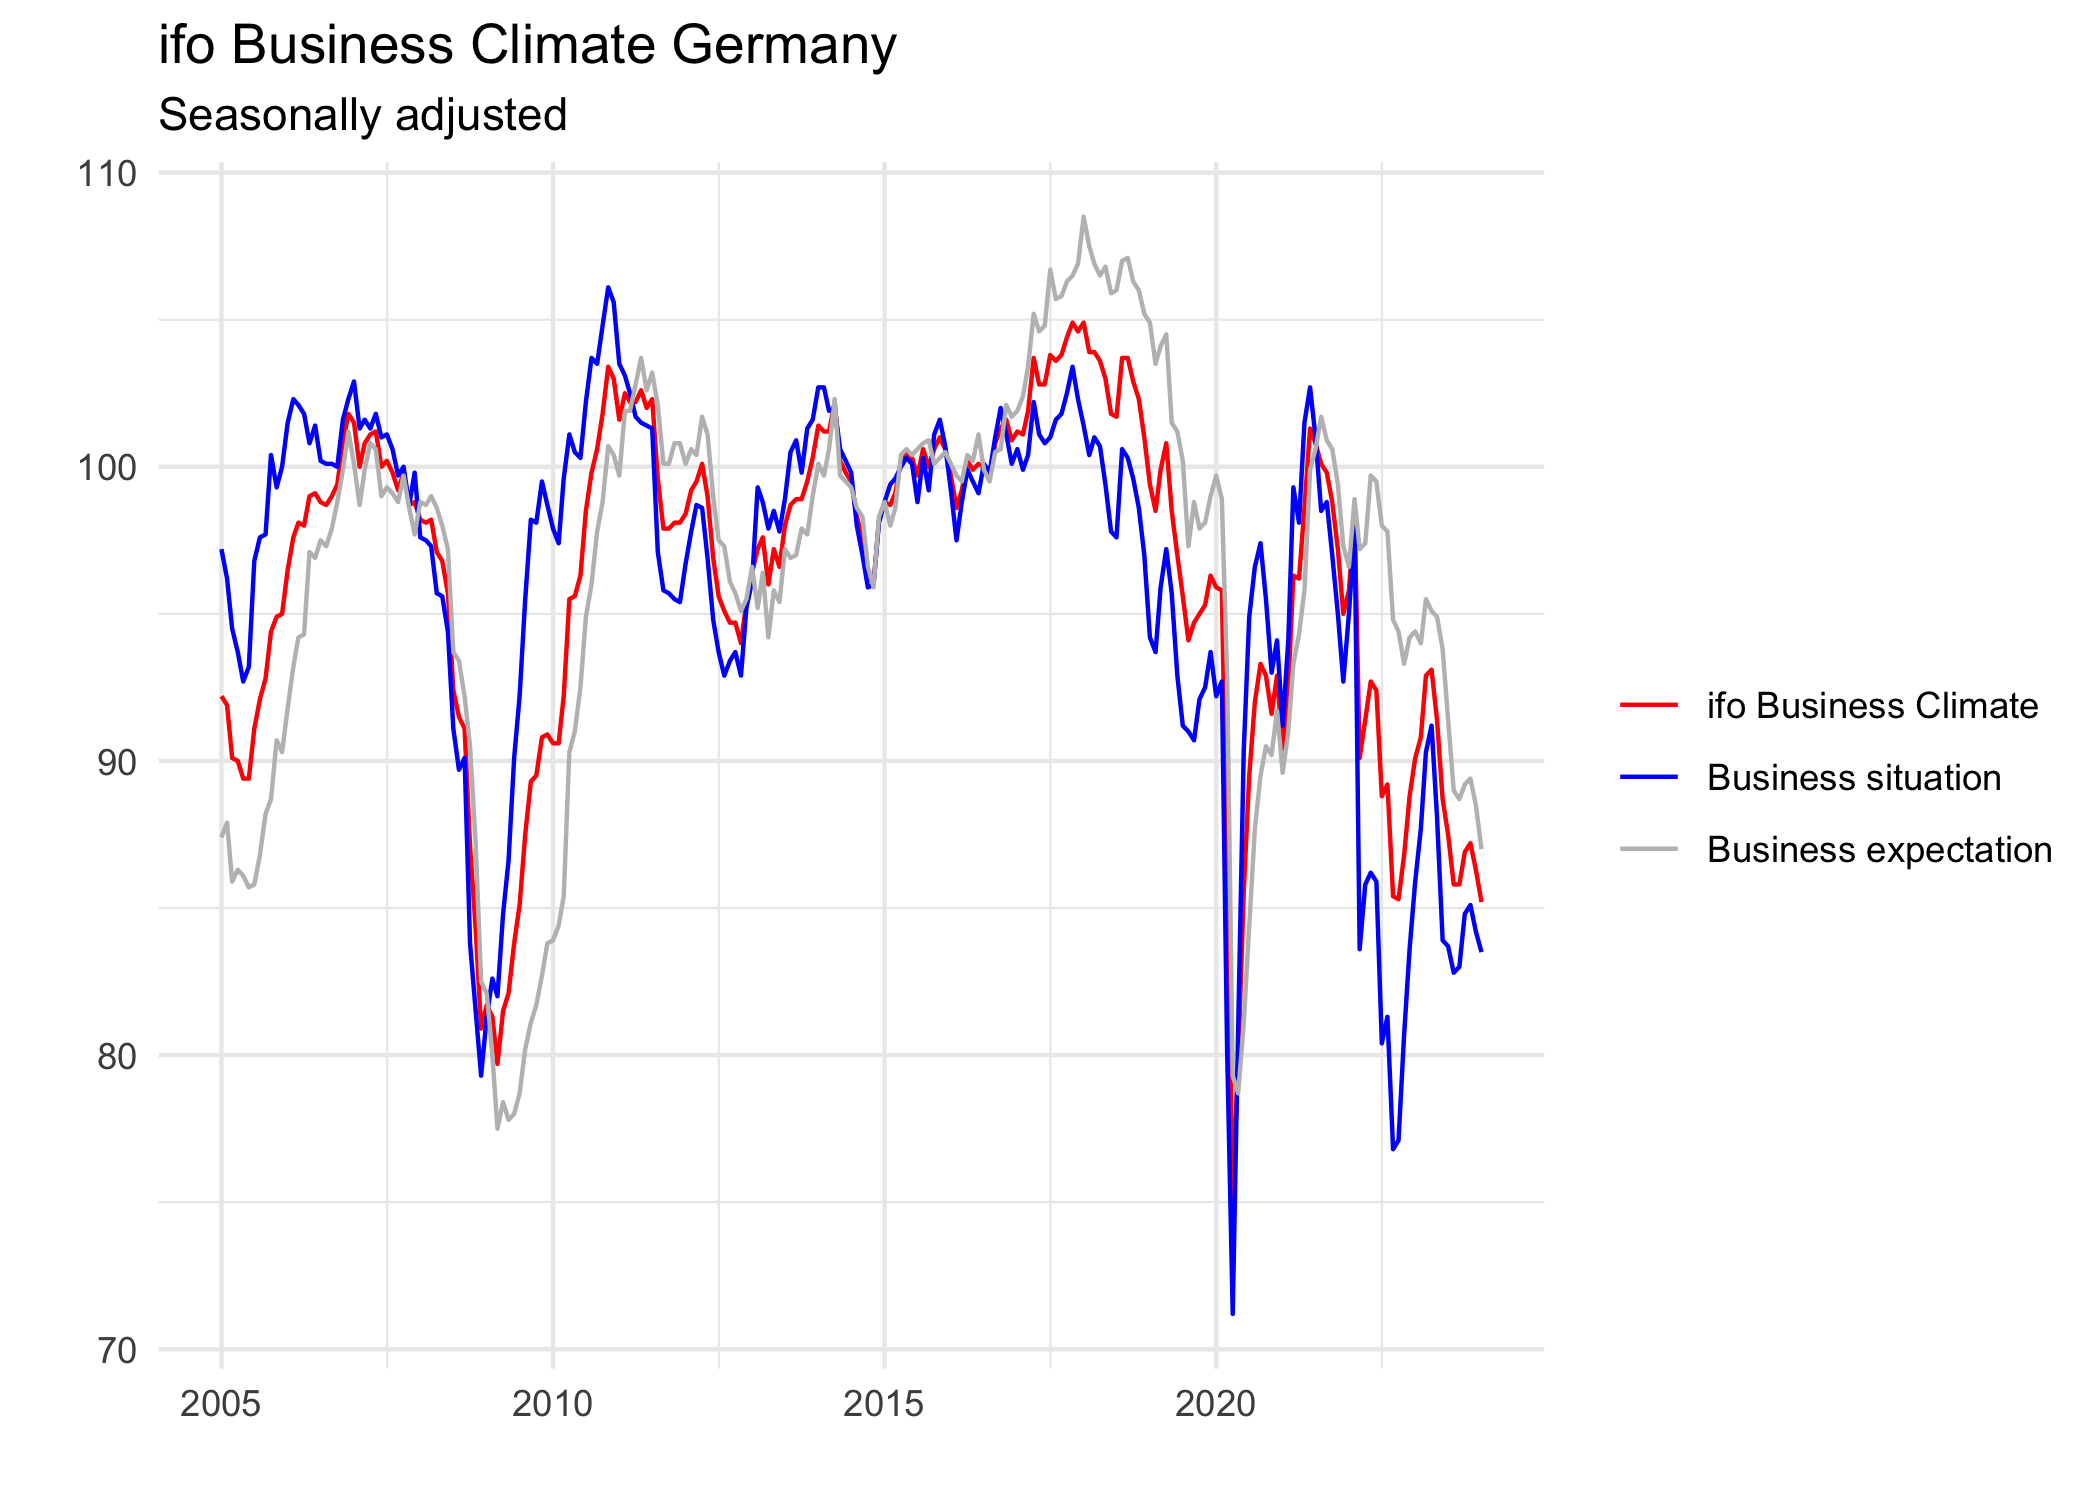
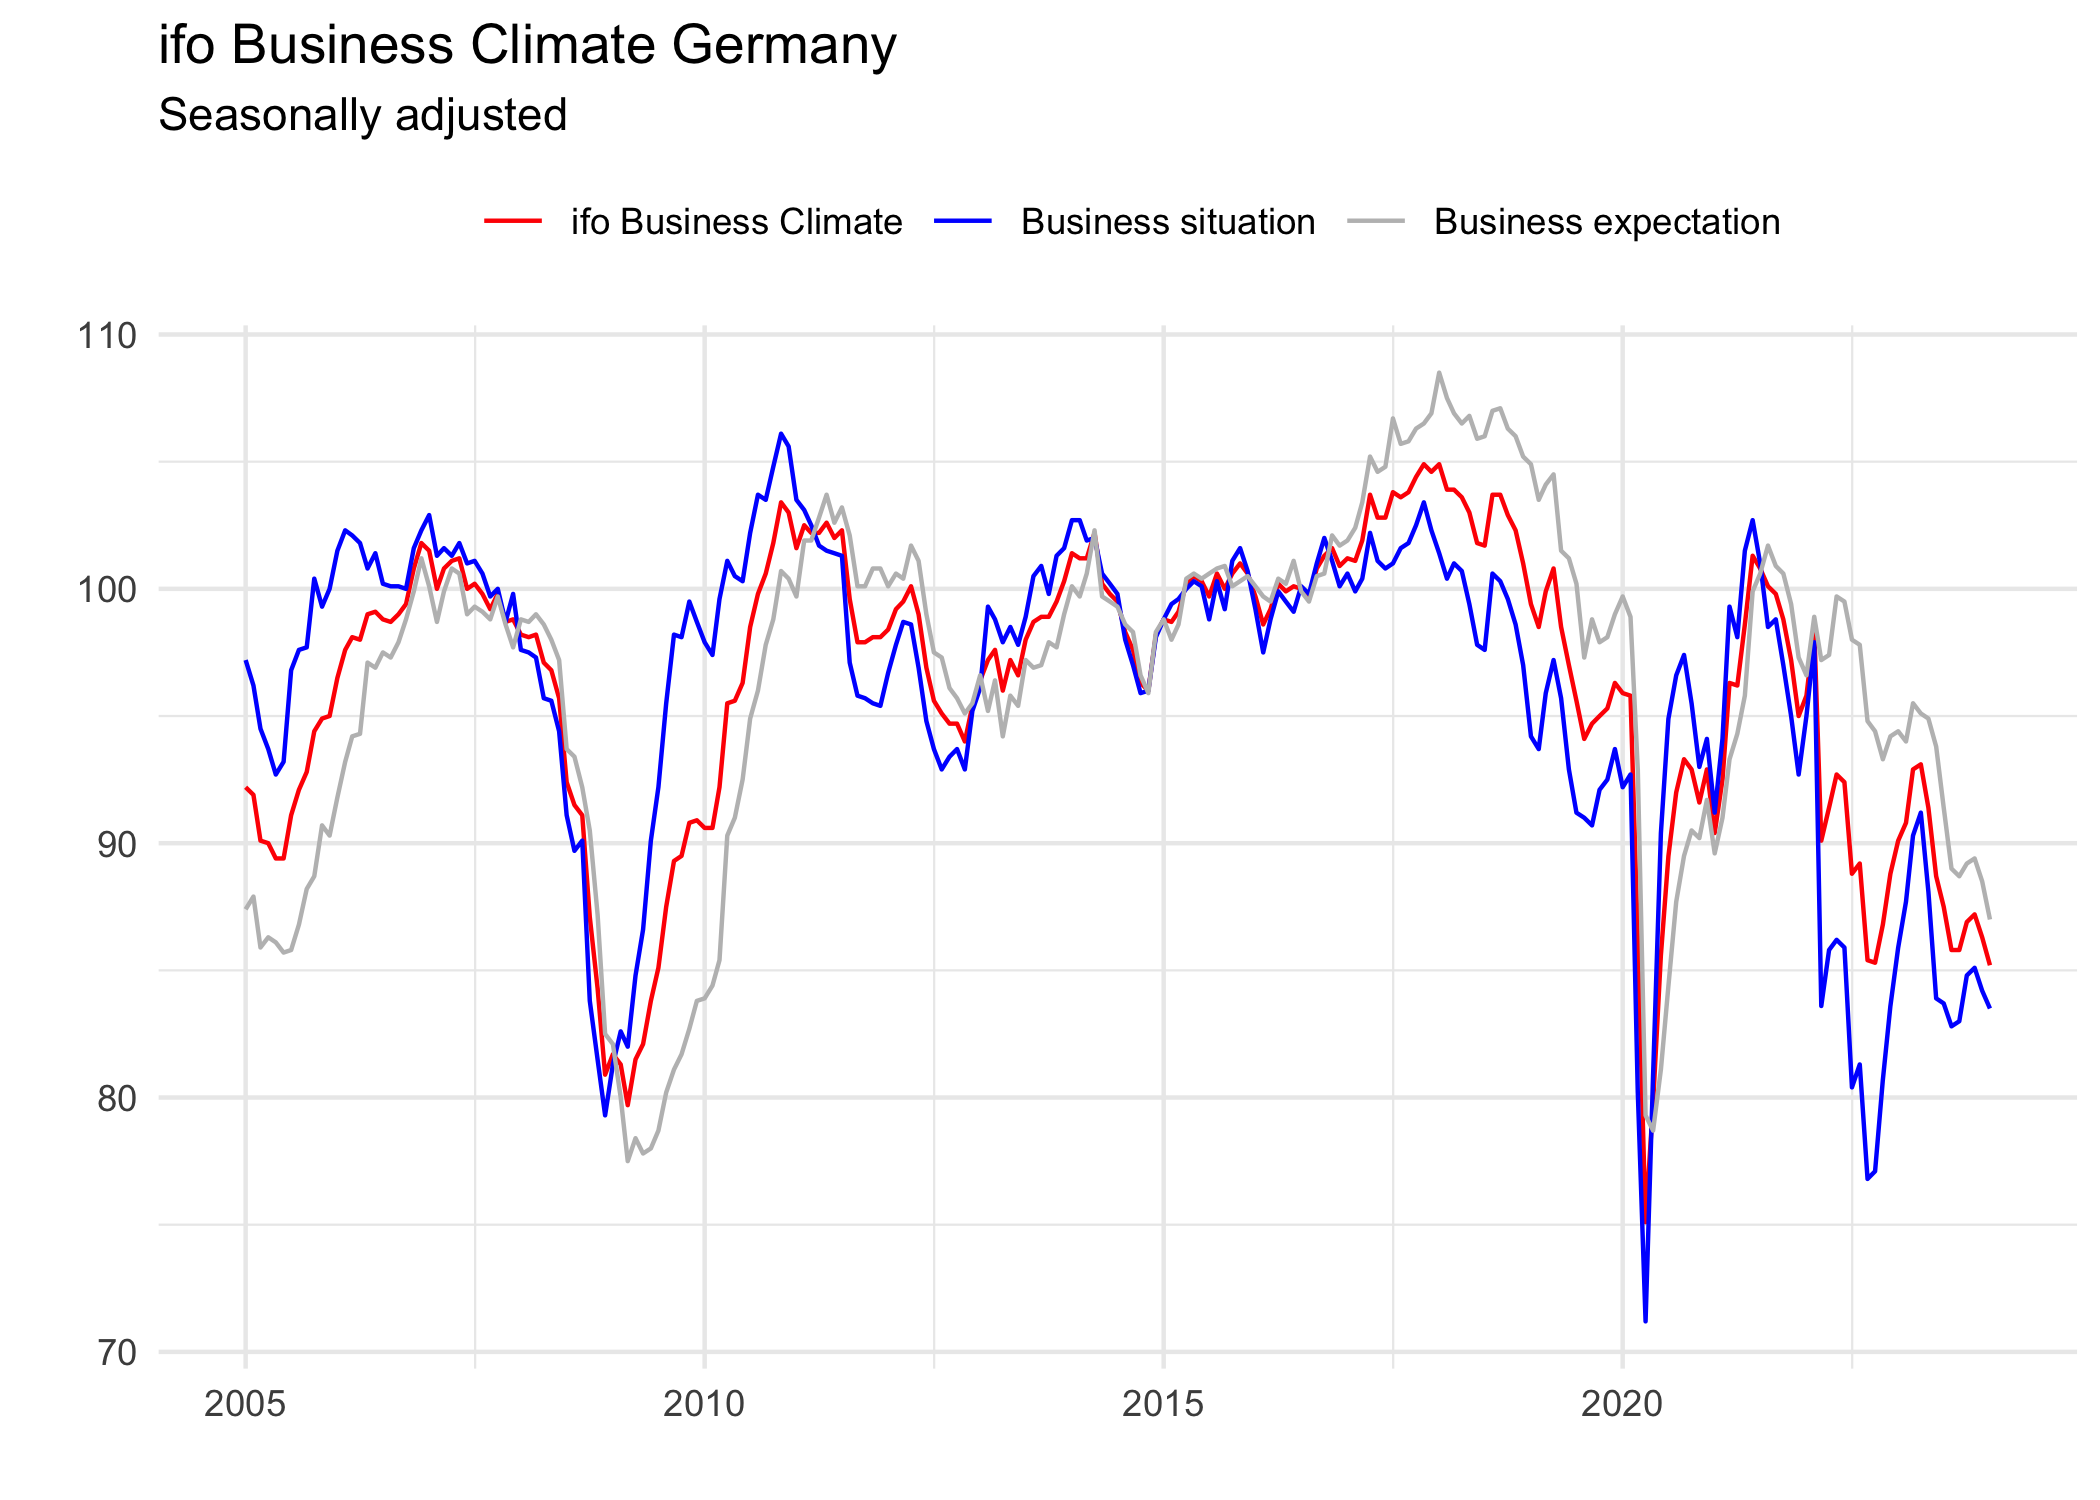
docs: move legend to the top

diff --git a/README.md b/README.md
@@ -62,7 +62,7 @@ climate |>
   geom_line() +
   labs(title = "ifo Business Climate Germany", subtitle = "Seasonally adjusted", y = "", x = "") +
   theme_minimal() +
-  theme(legend.title = element_blank()) +
+  theme(legend.title = element_blank(), legend.position = "top") +
   scale_color_manual(
     values = c("climate" = "red", "situation" = "grey", "expectation" = "blue"),
     labels = c("ifo Business Climate", "Business situation", "Business expectation")
